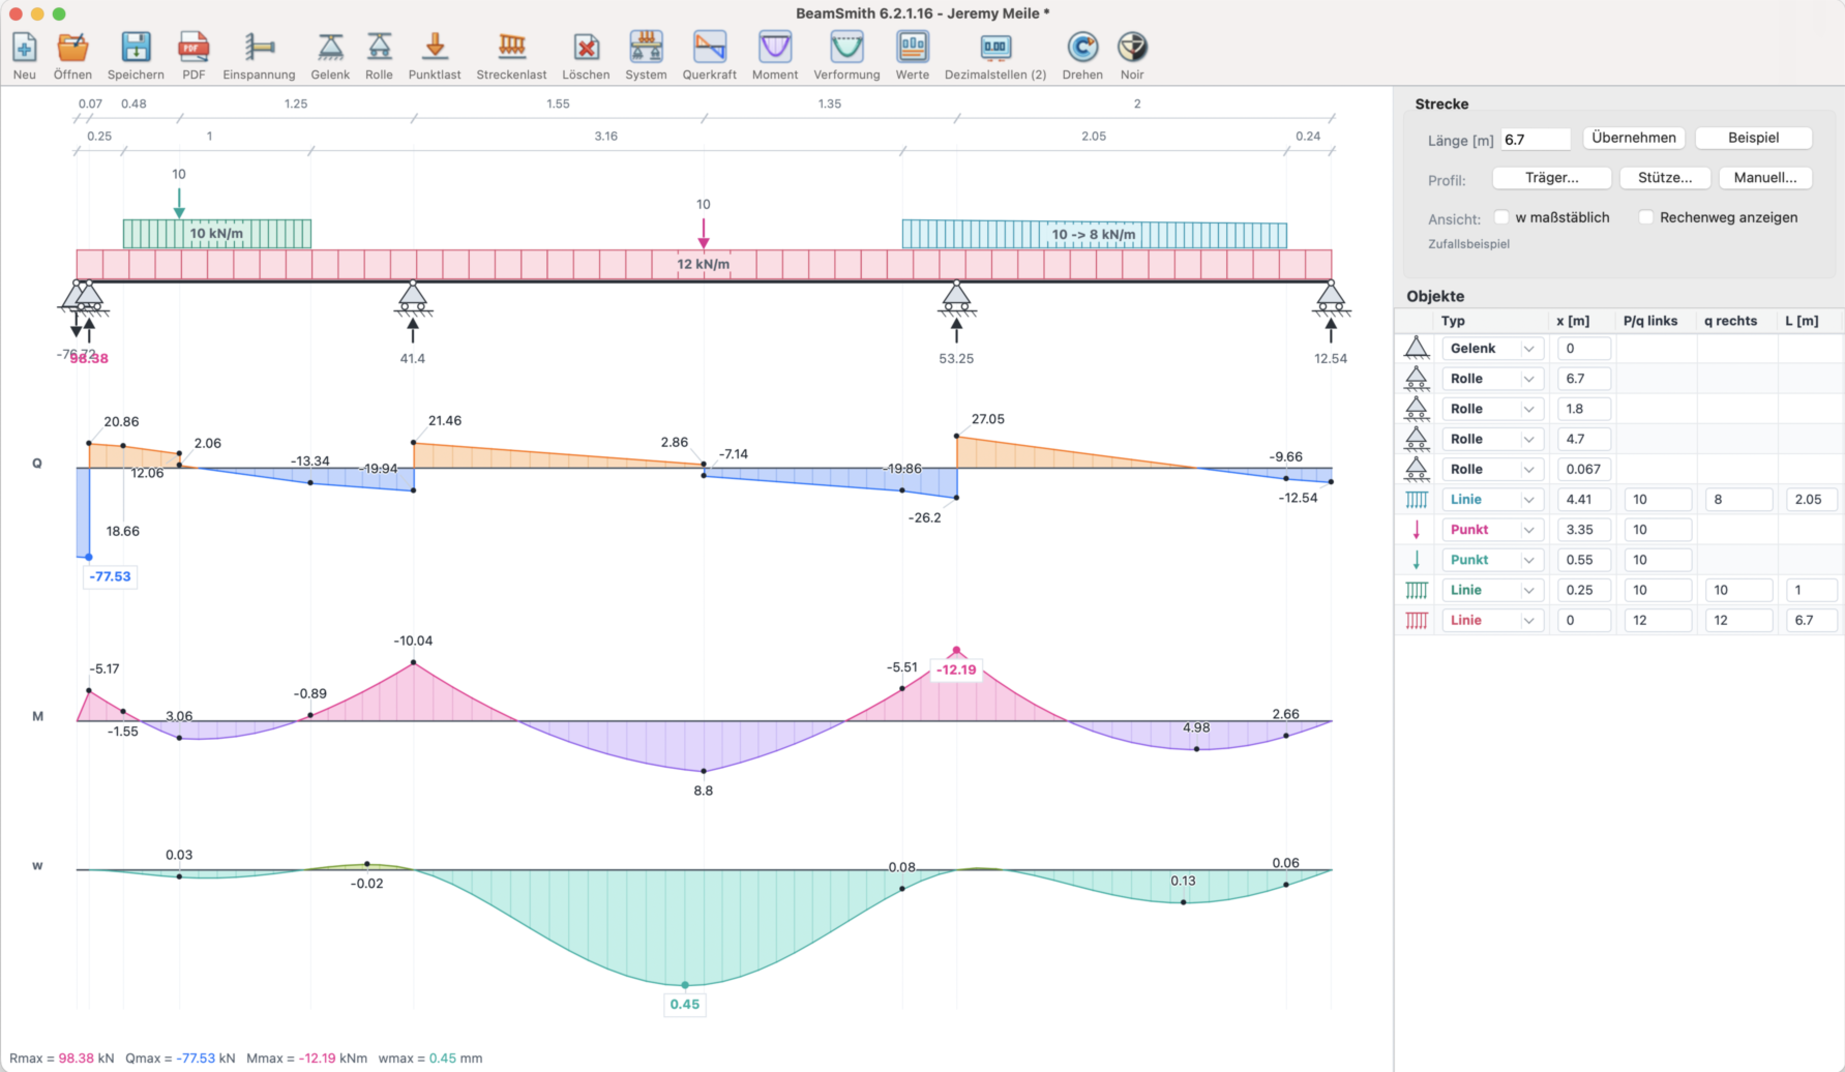
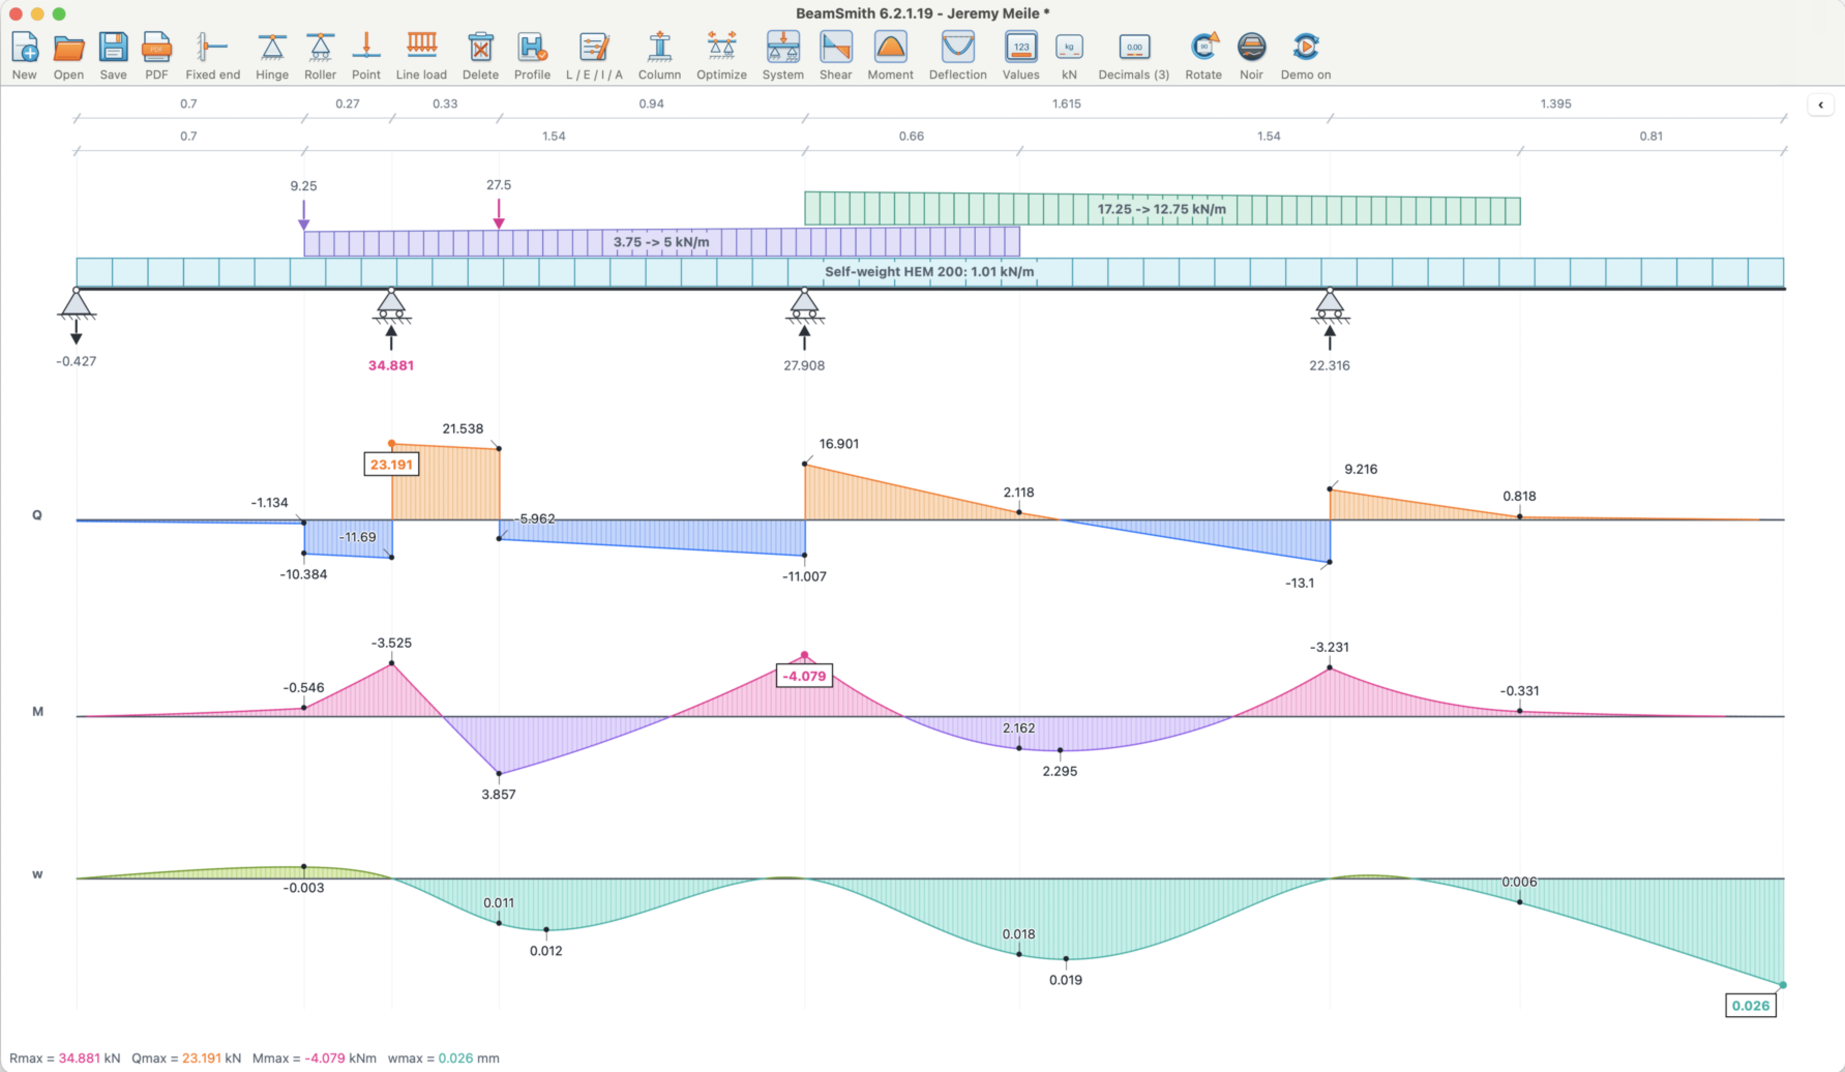
Update BeamSmith screenshot for 6.2.1.19

diff --git a/index.html b/index.html
@@ -908,7 +908,7 @@
                 </div>
                 <aside class="hero-aside" aria-label="Übersicht">
                     <div class="featured-preview">
-                        <img id="featured-image" src="Pictures/Beamsmith.PNG?v=6.2.1.16-2" alt="Vorschau von BeamSmith" decoding="async" fetchpriority="high">
+                        <img id="featured-image" src="Pictures/Beamsmith.PNG?v=6.2.1.19-1" alt="Vorschau von BeamSmith" decoding="async" fetchpriority="high">
                         <div class="featured-caption">
                             <strong id="featured-title">BeamSmith</strong>
                             <span id="featured-meta">Balken, Träger und Profile</span>
